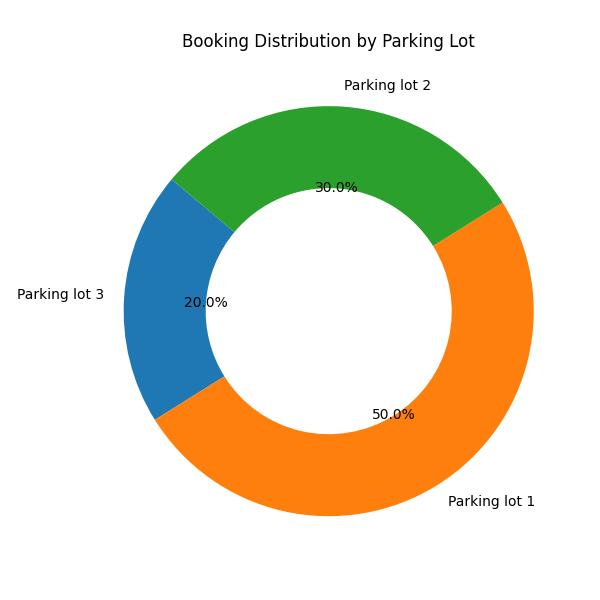
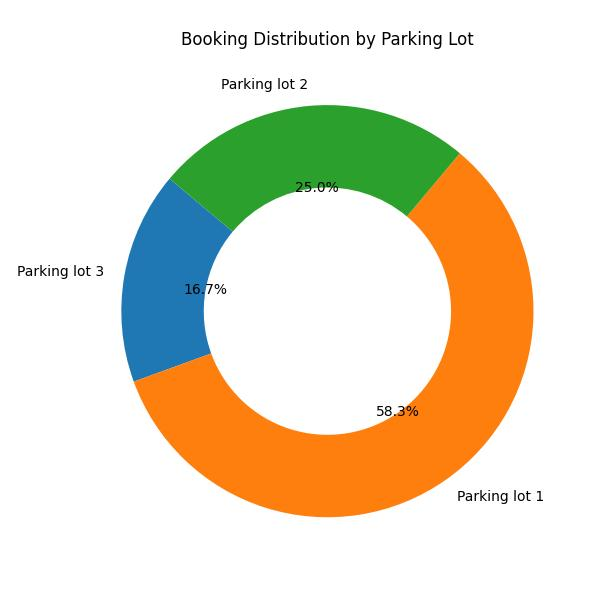
final

diff --git a/controllers/user_route.py b/controllers/user_route.py
@@ -139,6 +139,7 @@ def user_summary(user_id):
     plt.xlabel("Spot Name")
     plt.ylabel("No. of Time Spent(Hours)")
     plt.title("Most Visited Parking Spot")
+    plt.ylim(bottom=0)
     plt.tight_layout()
     plt.savefig("static/user_booking.jpg")
     plt.clf()
